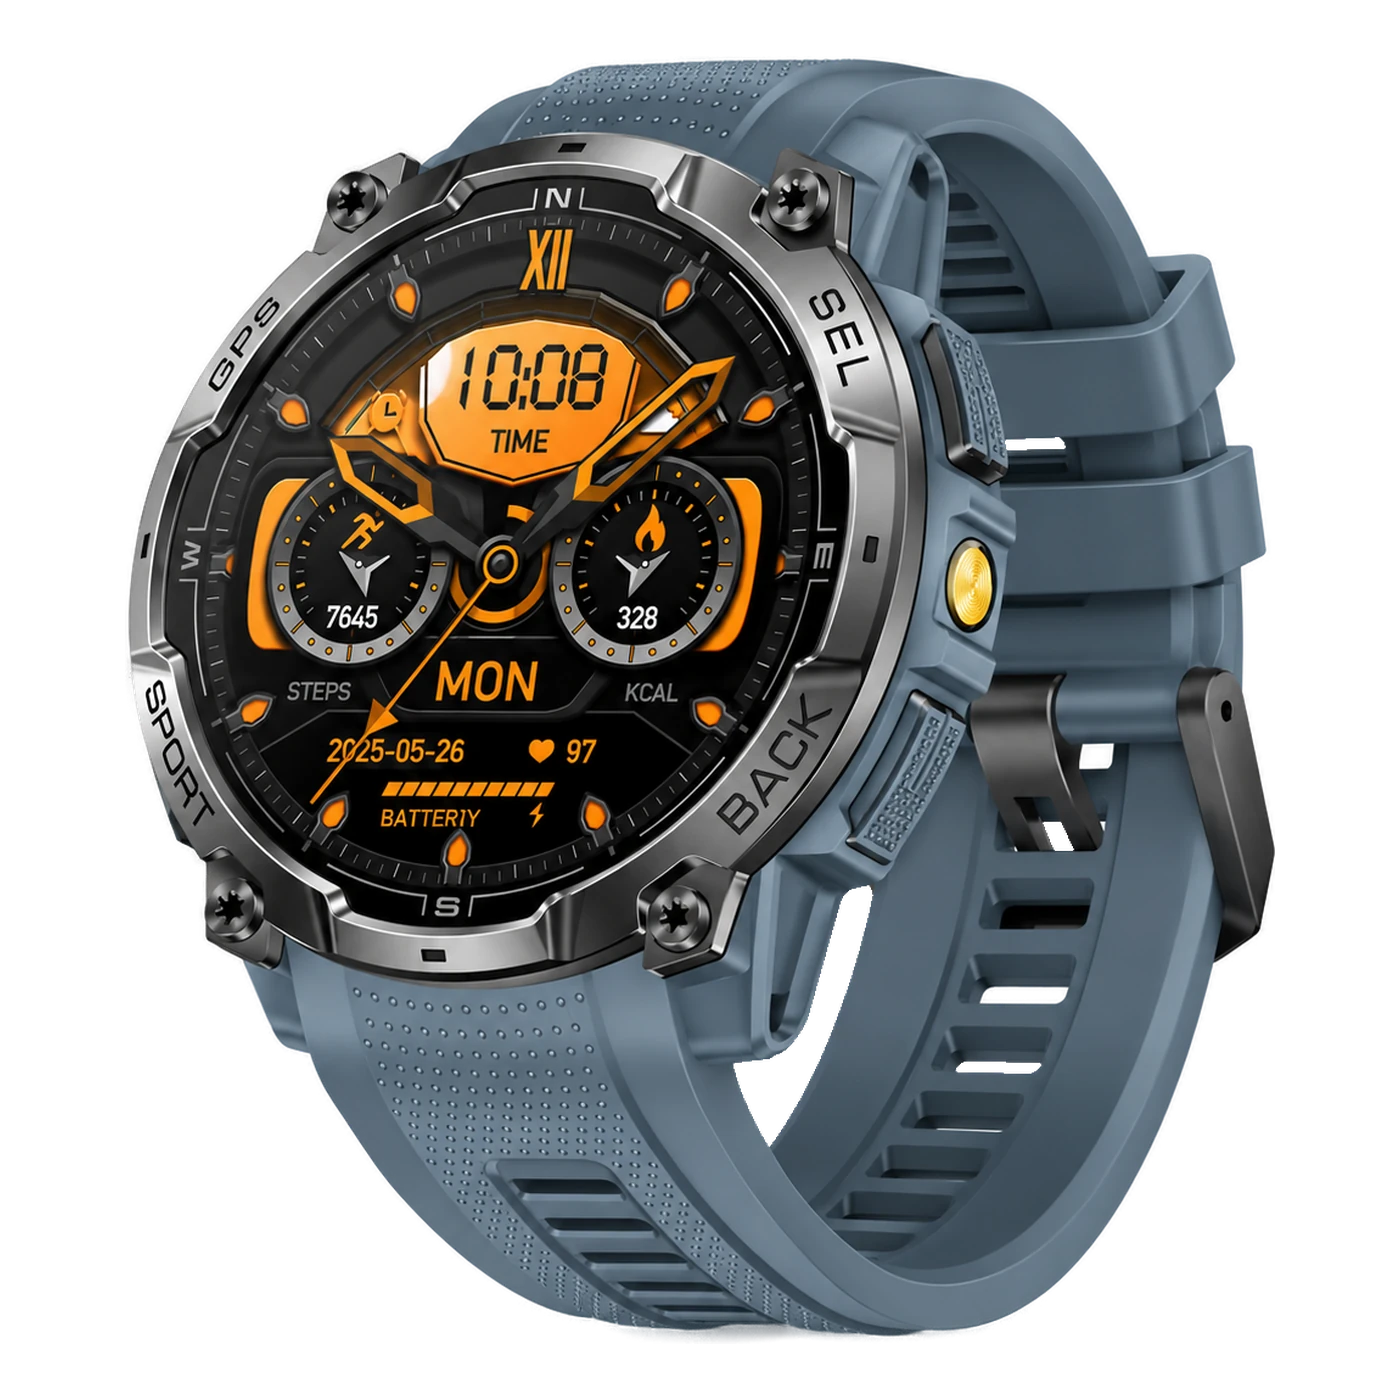
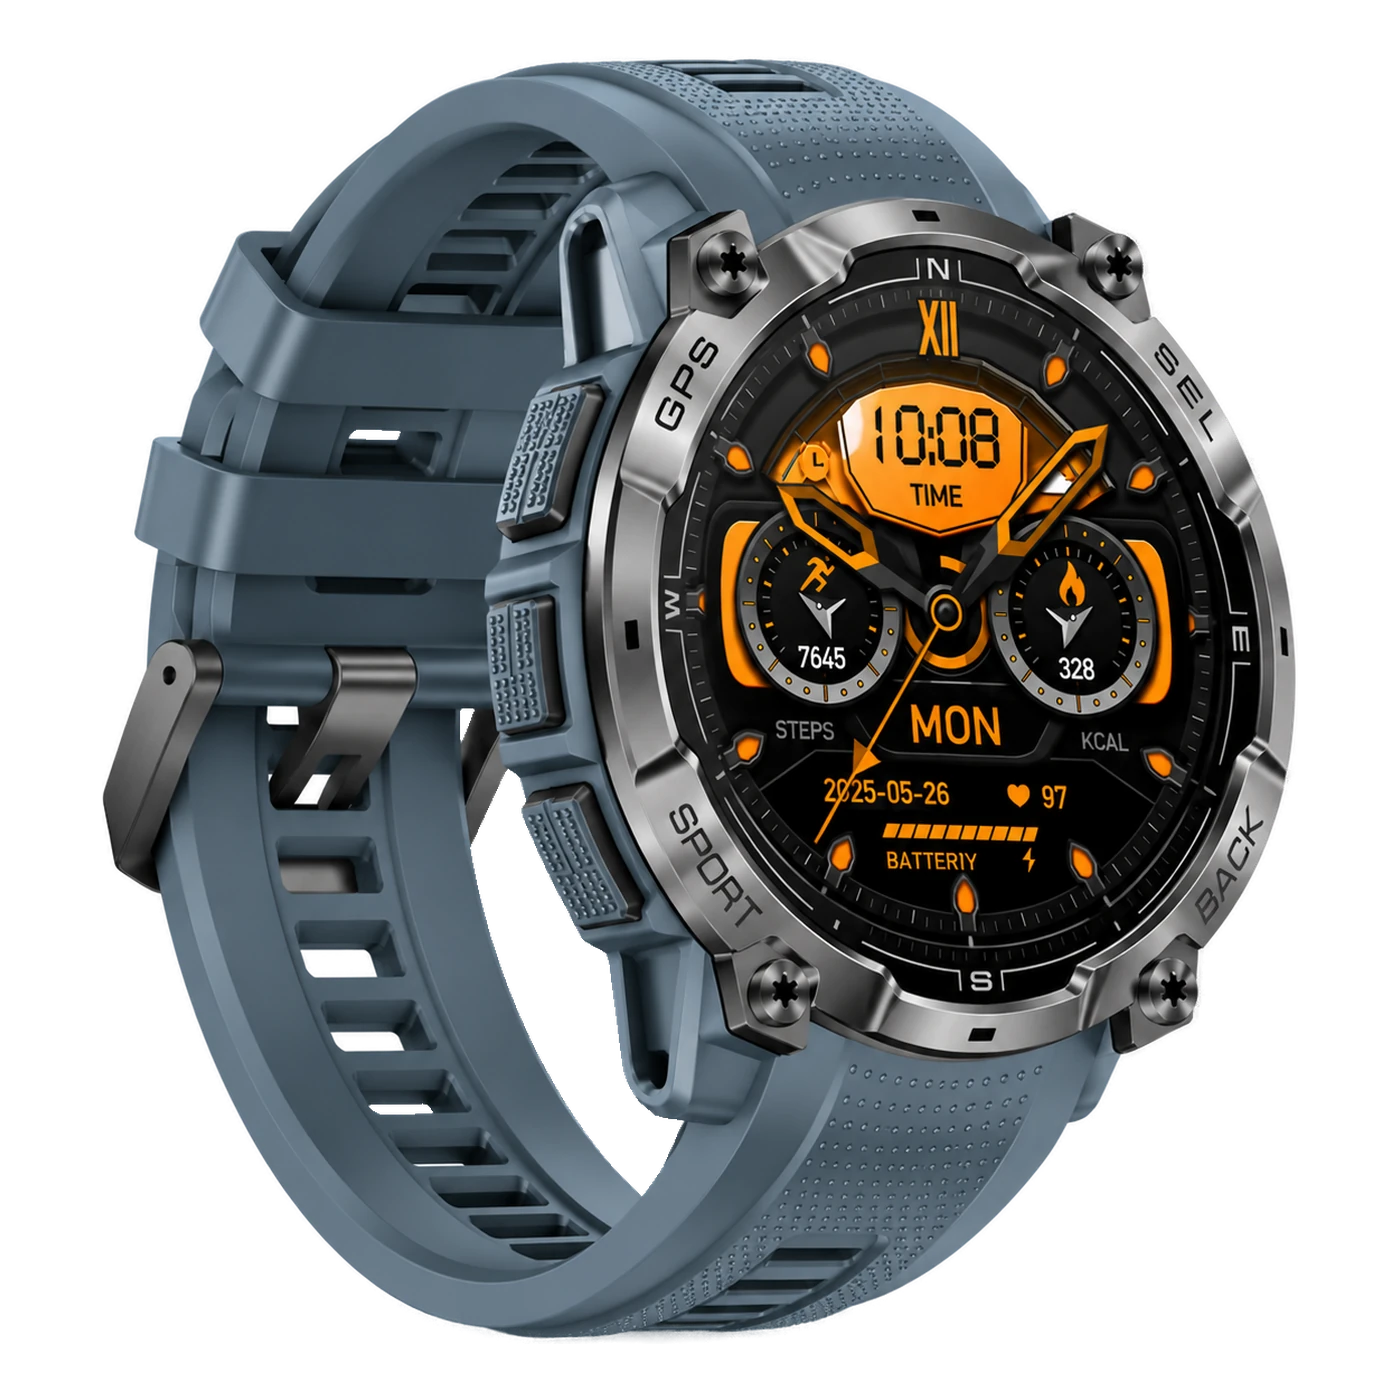
Replace Kaldor Slate Blue angle photo
Claude-Session: https://claude.ai/code/session_01RHST6kVMYUpKMKZpiVRtsR

diff --git a/lib/products.ts b/lib/products.ts
@@ -592,7 +592,7 @@ export const products: Product[] = [
       "Back of the army green MATIN Kaldor with heart rate sensor, magnetic charging pins and flashlight",
       "MATIN Kaldor tactical GPS smartwatch in slate blue with a compass bezel, yellow LED flashlight and blue silicone strap",
       "MATIN Kaldor slate blue front view with an orange tactical watch face on the round AMOLED screen",
-      "MATIN Kaldor slate blue rugged smartwatch angled view with armored screws and textured grip keys",
+      "MATIN Kaldor slate blue rugged smartwatch angled from the left with textured side buttons and metal buckle",
       "MATIN Kaldor slate blue side view with three textured buttons and armored case",
       "Back of the slate blue MATIN Kaldor with heart rate sensor, magnetic charging pins and flashlight",
     ],
